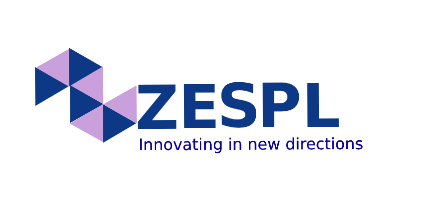
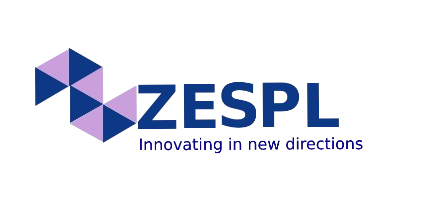
navbar border

Changed region(s): [[0.3326, 0.6699, 0.8465, 0.7282], [0.2116, 0.4951, 0.2419, 0.5243]]

diff --git a/src/components/Nav.js b/src/components/Nav.js
@@ -21,10 +21,10 @@ const Navbar = () => {
       <div className="logo-container">
         <a href="/" className="navbar-logo">
           <img 
-            src="/ZenithL.png" 
+            src="/Zenith.png" 
             alt="Logo" 
-            width={isScrolled ? "80" : "80"} 
-            height={isScrolled ? "24" : "24"}
+            width={isScrolled ? "80" : "120"} 
+            height={isScrolled ? "24" : "30"}
           />
         </a>
       </div>
@@ -53,25 +53,25 @@ const Navbar = () => {
             <a  style={{ textDecoration: 'none' }} className="navbar-link">Learning</a>
             <div className="dropdown-content">
               <Link to="/AlgniteAptiForge" style={{ textDecoration: 'none' }}>
-                <span className="special"><span className="text-green-400 text-xl font-bold ">Al</span><span className="text-red-400 text-lg font-semibold ">gnite</span> Apti Forge</span>
+                <span className="special"><span className="text-green-400 text-xl font-bold ">Al</span><span className="text-pink-400 text-lg font-semibold ">gnite</span> Apti Forge</span>
               </Link>
               <Link to="/AlgniteTechForge" style={{ textDecoration: 'none' }}>
-                <span className="special"><span className="text-green-400 text-xl font-bold ">Al</span><span className="text-red-400 text-lg font-semibold ">gnite</span> Tech Forge</span>
+                <span className="special"><span className="text-green-400 text-xl font-bold ">Al</span><span className="text-pink-400 text-lg font-semibold ">gnite</span> Tech Forge</span>
               </Link>
               <Link to="/AlgniteSoftSkillsForge" style={{ textDecoration: 'none' }}>
-                <span className="special"><span className="text-green-400 text-xl font-bold ">Al</span><span className="text-red-400 text-lg font-semibold ">gnite</span> SoftSkills</span>
+                <span className="special"><span className="text-green-400 text-xl font-bold ">Al</span><span className="text-pink-400 text-lg font-semibold ">gnite</span> SoftSkills</span>
               </Link>
               <Link to="/AlgniteSoftSkillsBoost" style={{ textDecoration: 'none' }}>
-                <span className="special"><span className="text-green-400 text-xl font-bold ">Al</span><span className="text-red-400 text-lg font-semibold ">gnite</span> Apti Boost</span>
+                <span className="special"><span className="text-green-400 text-xl font-bold ">Al</span><span className="text-pink-400 text-lg font-semibold ">gnite</span> Apti Boost</span>
               </Link>
               <Link to="/AlgniteSoftSkillsBoost" style={{ textDecoration: 'none' }}>
-                <span className="special"><span className="text-green-400 text-xl font-bold ">Al</span><span className="text-red-400 text-lg font-semibold ">gnite</span> Soft Boost</span>
+                <span className="special"><span className="text-green-400 text-xl font-bold ">Al</span><span className="text-pink-400 text-lg font-semibold ">gnite</span> Soft Boost</span>
               </Link>
               <Link to="/AlgniteCompanySpecificPulse" style={{ textDecoration: 'none' }}>
-                <span className="special"><span className="text-green-400 text-xl font-bold ">Al</span><span className="text-red-400 text-lg font-semibold ">gnite</span> Company Specific Pulse</span>
+                <span className="special"><span className="text-green-400 text-xl font-bold ">Al</span><span className="text-pink-400 text-lg font-semibold ">gnite</span> Company Specific Pulse</span>
               </Link>
               <Link to="/AlgniteLab" style={{ textDecoration: 'none' }}>
-                <span className="special"><span className="text-green-400 text-xl font-bold ">Al</span><span className="text-red-400 text-lg font-semibold ">gnite</span> Lab</span>
+                <span className="special"><span className="text-green-400 text-xl font-bold ">Al</span><span className="text-pink-400 text-lg font-semibold ">gnite</span> Lab</span>
               </Link>
             </div>
           </li>
@@ -79,16 +79,16 @@ const Navbar = () => {
             <a  style={{ textDecoration: 'none' }} className="navbar-link">Assessment</a>
             <div className="dropdown-content">
               <Link to="/AlgniteAptiAssess" style={{ textDecoration: 'none' }}>
-                <span className="special"><span className="text-green-400 text-xl font-bold ">Al</span><span className="text-red-400 text-lg font-semibold ">gnite</span> Apti Assess</span>
+                <span className="special"><span className="text-green-400 text-xl font-bold ">Al</span><span className="text-pink-400 text-lg font-semibold ">gnite</span> Apti Assess</span>
               </Link>
               <Link to="/AlgniteTechAssess" style={{ textDecoration: 'none' }}>
-                <span className="special"><span className="text-green-400 text-xl font-bold ">Al</span><span className="text-red-400 text-lg font-semibold ">gnite</span> Tech Assess</span>
+                <span className="special"><span className="text-green-400 text-xl font-bold ">Al</span><span className="text-pink-400 text-lg font-semibold ">gnite</span> Tech Assess</span>
               </Link>
               <Link to="/AlgniteAssess360" style={{ textDecoration: 'none' }}>
-                <span className="special"><span className="text-green-400 text-xl font-bold ">Al</span><span className="text-red-400 text-lg font-semibold ">gnite</span> Assess360</span>
+                <span className="special"><span className="text-green-400 text-xl font-bold ">Al</span><span className="text-pink-400 text-lg font-semibold ">gnite</span> Assess360</span>
               </Link>
               <Link to="/AlgniteHIRE" style={{ textDecoration: 'none' }}>
-                <span className="special"><span className="text-green-400 text-xl font-bold ">Al</span><span className="text-red-400 text-lg font-semibold ">gnite</span> HIRE</span>
+                <span className="special"><span className="text-green-400 text-xl font-bold ">Al</span><span className="text-pink-400 text-lg font-semibold ">gnite</span> HIRE</span>
               </Link>
             </div>
           </li>

diff --git a/src/components/Pages/Home/Home.js b/src/components/Pages/Home/Home.js
@@ -577,7 +577,7 @@ const Home = () => {
         <footer className="footer-container">
       <div className="top-section">
         <div className="logo-section">
-          <img src="/ZenithL.png" alt="Zenith Logo" className="lt-logo" />
+          <img src="/Zenith.png" alt="Zenith Logo" className="lt-logo" />
           <div className="social-icons">
             <a href="#"><i className="fab fa-linkedin"></i></a>
             <a href="#"><i className="fab fa-facebook"></i></a>

diff --git a/src/components/Nav.css b/src/components/Nav.css
@@ -4,7 +4,7 @@
   background-color: transparent;
   padding: 0.2rem 0.4rem;
   margin: 0.00001rem;
-  border-bottom: 1px solid #e5e7eb;
+  border-bottom:  transparent;
   display: flex;
   justify-content: space-between;
   align-items: center;
@@ -57,6 +57,7 @@
 .navbar-logo {
   display: flex;
   align-items: center;
+  margin: 0rem;
   padding: 0.375rem;
   transition: transform 0.3s ease;
 }

diff --git a/src/components/Pages/LearningSolution/AlgniteAptiBoost.js b/src/components/Pages/LearningSolution/AlgniteAptiBoost.js
@@ -6,6 +6,7 @@ const AlgniteAptiBoost = () => {
   const hash = location.hash;
 
   return (
+    
     <div className="min-h-screen bg-gray-50 p-8">
       <div id="zespl" className="mb-12">
         <h2 className="text-3xl font-bold text-gray-900 mb-4">About ZESPL</h2>

diff --git a/src/components/Pages/Home/Home.css b/src/components/Pages/Home/Home.css
@@ -1002,7 +1002,7 @@ section.visible {
 }
 
 .footer-section li:hover {
-  color: #d01515;
+  color: #538682;
 }
 
 .footer-section p {
